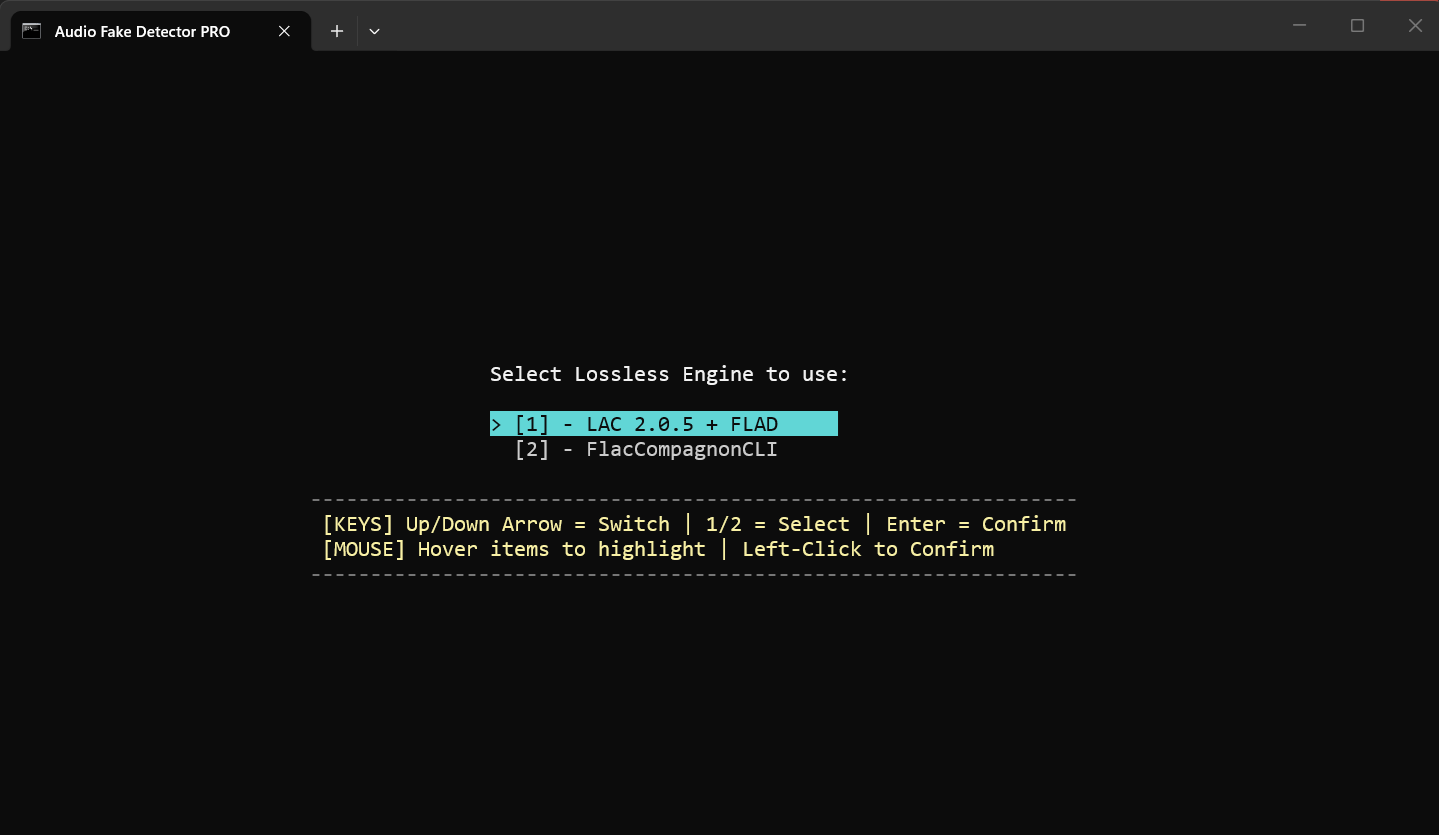
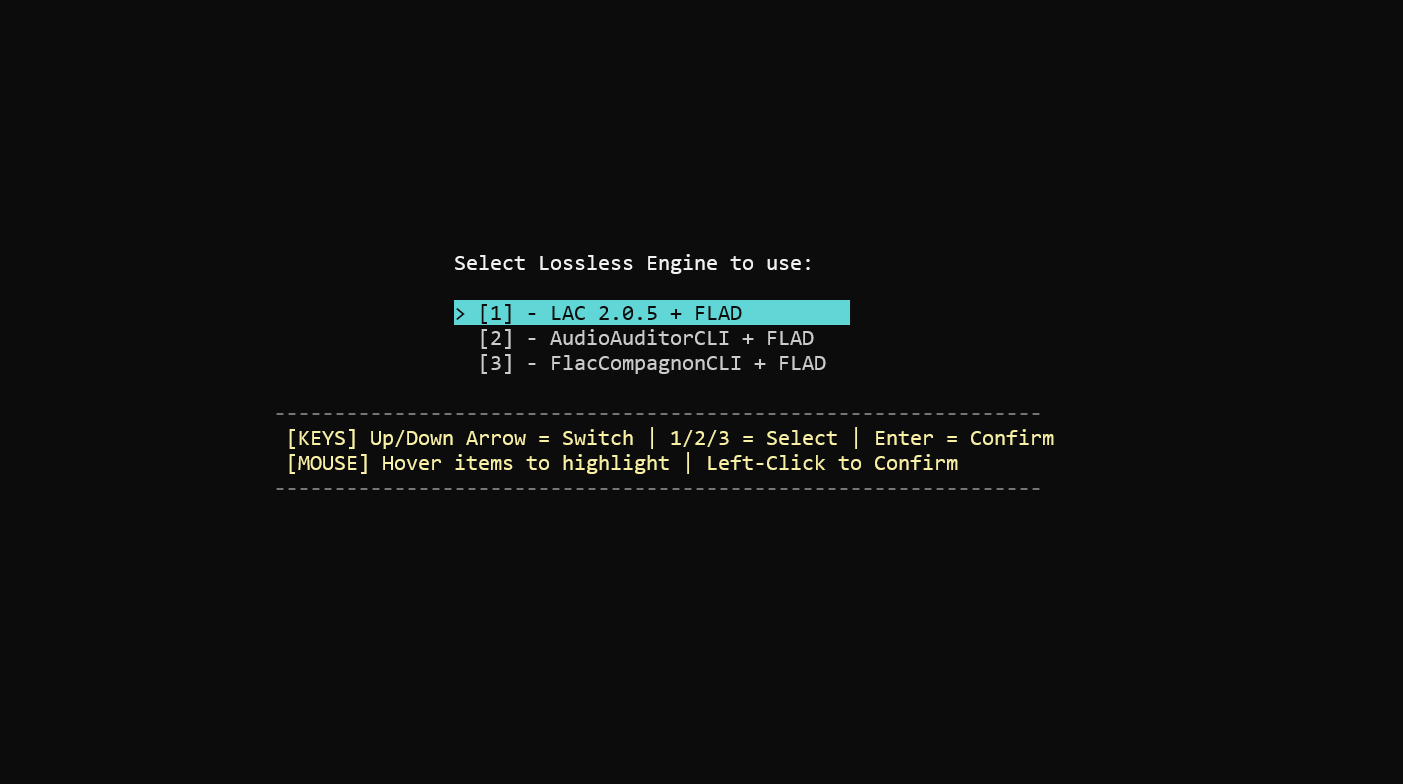
Add files via upload

Changed region(s): [[0.2145, 0.3061, 0.7662, 0.6735], [0.0, 0.0, 1.0, 0.0612]]

diff --git a/README.md b/README.md
@@ -34,8 +34,6 @@ Start_script_no_move.cmd (Intel Core 2 Duo test)
 
 ![Screenshot 4](Screenshot%204.png)
 
-![Screenshot 5](Screenshot%205.png)
-
 Performance note: Audio Fake Detector PRO prioritizes detection coverage and cross-verification over raw analysis speed.  
 Some lossless files require significantly more processing time, particularly when LAC and FLAD are both used for independent verification.  
 
@@ -55,8 +53,9 @@ Self explained
 * Spectral cutoff and compression artifact detection
 * Multi-segment frequency analysis
 * Joint stereo anomaly detection
-* Statistical validation using LAC (Lossless Audio Checker)
-* Automatic dependency management (FFmpeg, FFprobe)
+* Selectable lossless verification engines: LAC 2.0.5 + FLAD, AudioAuditorCLI + FLAD, or FlacCompagnonCLI + FLAD
+* Statistical validation using LAC (Lossless Audio Checker), FLAD, AudioAuditorCLI, and FlacCompagnonCLI for lossless PCM verification
+* Automatic dependency management (FFmpeg, FFprobe, FLAD, and AudioAuditorCLI when selected)
 * High-performance spectrogram processing
 * Detailed reporting: LOG - CSV  
 On selection window, click to cycle: [CSV ( )] → [CSV (,)] → [CSV (;)] → [CSV ( )]
@@ -69,7 +68,7 @@ On selection window, click to cycle: [CSV ( )] → [CSV (,)] → [CSV (;)] → [
 Audio Fake Detector PRO uses a hybrid analysis engine:
 
 * **Spectral Analysis**: detects frequency cutoffs, compression artifacts, and artificial bandwidth extension
-* **Statistical Validation**: verifies lossless authenticity using LAC (Lossless Audio Checker), with FLAD as a second-opinion check on LAC's "Clean"/"Suspect" verdicts
+* **Statistical Validation**: verifies lossless authenticity using the selected lossless engine. LAC + FLAD, AudioAuditorCLI + FLAD, and FlacCompagnonCLI + FLAD use FLAD as a second-opinion check.
 * **Segment-Based Voting System**: improves accuracy by analyzing multiple independent audio segments
 
 This approach reduces false positives and improves detection reliability across different audio formats, including Hi-Res/Ultra-Hi-Res PCM and native DSD, where a dedicated noise-shaping signature check tells a genuine SACD/DSD-derived source apart from an upsampled fake.
@@ -79,11 +78,13 @@ This approach reduces false positives and improves detection reliability across 
 ### 🔎 Lossless
 
 At each startup, a console prompt allows the user to choose the lossless verification mode.  
-LAC + FLAD mode is selected by default, while FlacCompagnonCLI mode can be selected as an alternative.
+**LAC + FLAD mode is selected by default**, while **AudioAuditorCLI + FLAD** and **FlacCompagnonCLI + FLAD** can be selected as alternatives.
 
-LAC + FLAD mode: Lossless audio is verified using Lossless Audio Checker (LAC 2.0.5) and FLAD (Fake Lossless Audio Detector).  
-LAC performs the primary command-line analysis. FLAD is invoked only when LAC returns a conclusive "Clean" or "Suspect" result, providing an independent second check.  
-If LAC identifies a file as "Fake", FLAD's 2nd opinion is not required, as the result is already conclusive.
+#### LAC + FLAD mode
+
+Lossless audio is verified using Lossless Audio Checker (LAC 2.0.5) and FLAD (Fake Lossless Audio Detector).  
+LAC performs the primary command-line analysis. FLAD is used as a second-opinion check when the LAC vote is not already a conclusive FAKE result.  
+If LAC identifies a file as "Fake", no FLAD second-opinion verdict is required to reject the file as genuine lossless.
 
 For slot analysis, FLAC files are temporarily converted to WAV segments (slots) for LAC. LAC and FLAD then analyse the same corresponding temporary WAV segment for each slot.  
 For full-track analysis, LAC analyses the temporary full-track WAV converted from the original FLAC, while FLAD analyses the original FLAC file directly.  
@@ -92,33 +93,53 @@ Therefore, the temporary FLAC-to-WAV conversion is required only for the LAC ana
 Both command-line analyzers run through a unified 3-slot processing pipeline. The LAC/FLAD verification pipeline applies exclusively to lossless PCM audio.  
 Native DSD files are not passed to, or analyzed by, either command-line analyzer. This dual-verification approach replaces auCDtect.
 
-A lossless PCM file is considered genuine only when both LAC and FLAD support the lossless classification. A negative result from either analyzer is sufficient to reject the file as genuine lossless.
+A lossless PCM file is considered genuine only when the combined LAC + FLAD result supports the lossless classification. A negative result from either analyzer is sufficient to reject the file as genuine lossless.
 
 Note: This integration specifically uses the LAC 2.0.5 command-line analyzer and should not be confused with LAC 2.0.7, which launches the graphical user interface (GUI). Like LAC 2.0.5, FLAD is also used as a command-line audio analyzer, providing Hi-Res / Ultra-Hi-Res PCM analysis up to 384 kHz and beyond.
 
-FlacCompagnonCLI mode: FlacCompagnonCLI is used as the sole lossless verification engine. In this mode, LAC and FLAD are not used for lossless verification.  
+#### AudioAuditorCLI + FLAD mode
+
+AudioAuditorCLI can be selected as an alternative primary lossless command-line analyzer, with FLAD used as the second-opinion engine in the same processing model as LAC + FLAD.
+
+AudioAuditorCLI is the Windows x64 command-line client from the AudioAuditor project.
+
+For the 3-slot processing architecture, AudioAuditorCLI and FLAD analyse corresponding native-format slot files. A FLAC source remains FLAC for both analyzers; a WAV source remains WAV. No FLAC-to-WAV conversion is performed for the AudioAuditorCLI + FLAD path.  
+For full-track analysis, AudioAuditorCLI and FLAD both analyse the original source file directly, in its original format.
+
+AudioAuditorCLI + FLAD applies exclusively to lossless PCM audio. Native DSD files are not passed to either command-line analyzer and continue to use Audio Fake Detector PRO's native DSD analysis path.
+
+The AudioAuditorCLI executable is not included in the base distribution when absent; when this engine is selected, Audio Fake Detector PRO can download `AudioAuditorCLI-win-x64.exe` automatically from the project's official GitHub release after the user has selected the corresponding mode.
+
+#### FlacCompagnonCLI + FLAD mode
+
+FlacCompagnonCLI is used as the primary lossless verification engine, with FLAD as an independent second-opinion check.  
 FlacCompagnonCLI is used exclusively for lossless PCM audio; native DSD files are not passed to, or analyzed by, FlacCompagnonCLI.  
-No FLAC-to-WAV conversion is performed in either slot or full-track analysis. FlacCompagnonCLI analyses the original FLAC file directly in both modes.  
+No FLAC-to-WAV conversion is performed in either slot or full-track analysis. For slot analysis, FlacCompagnonCLI and FLAD analyze the same corresponding native-format slot: FLAC remains FLAC and WAV remains WAV. For full-track analysis, both analyzers analyze the original source file directly in its original format.  
 FlacCompagnonCLI is a custom command-line frontend based on the open-source FlacCompagnon project.
 
 ---
 
 ### 🎧 DSD
 
-Audio Fake Detector PRO provides native DSD support (.dsf / .dff) independently of LAC and FLAD. Native DSD files are analyzed by the application's own DSD processing and are not processed through the LAC/FLAD verification pipeline.  
-The application also provides SACD/DSD-to-PCM noise-shaping detection, allowing DSD-derived characteristics to be identified when analyzing PCM material. This functionality is part of Audio Fake Detector PRO and is not performed by LAC or FLAD.
+Audio Fake Detector PRO provides native DSD support (.dsf / .dff) independently of LAC, FLAD, AudioAuditorCLI, and FlacCompagnonCLI. Native DSD files are analyzed by the application's own DSD processing and are not processed through any of the selectable lossless verification pipelines.  
+The application also provides SACD/DSD-to-PCM noise-shaping detection, allowing DSD-derived characteristics to be identified when analyzing PCM material. This functionality is part of Audio Fake Detector PRO and is not performed by LAC, FLAD, AudioAuditorCLI, or FlacCompagnonCLI.
 
 ---
 
 ### 🛡 Dual-Engine Precision
 
-The combination of LAC + FLAD provides complementary validation for lossless PCM audio by addressing each tool's native blind spots:
+The combination of a primary lossless analyzer and FLAD provides complementary validation for lossless PCM audio. The three selectable dual-engine modes are:
 
-LAC accurately detects sample-rate upscaling (e.g., 44.1 → 48 kHz).  
-FLAD helps identify lossy-to-lossless transcodes (e.g., MP3/AAC → WAV/FLAC).  
-Neither LAC nor FLAD is responsible for native DSD analysis; DSD processing is handled independently by Audio Fake Detector PRO since version 8.4.
+* **LAC + FLAD**: LAC is the primary command-line analyzer and FLAD provides the independent second check.
+* **AudioAuditorCLI + FLAD**: AudioAuditorCLI is the primary command-line analyzer and FLAD provides the independent second check.
+* **FlacCompagnonCLI + FLAD**: FlacCompagnonCLI is the primary command-line analyzer and FLAD provides the independent second check.
 
-This complementary approach is particularly useful because the two analyzers can expose different types of suspicious lossless material that may be missed by the other analyzer alone.
+LAC is useful for detecting sample-rate upscaling (e.g. 44.1 → 48 kHz).  
+FLAD helps identify lossy-to-lossless transcodes (e.g. MP3/AAC → WAV/FLAC).  
+AudioAuditorCLI provides an additional independent lossless analysis path, returning explicit REAL / FAKE / UNKNOWN classifications.  
+Neither LAC, FLAD, AudioAuditorCLI, nor FlacCompagnonCLI is responsible for native DSD analysis; DSD processing is handled independently by Audio Fake Detector PRO since version 8.4.
+
+These complementary analysis paths can expose different types of suspicious lossless material that may be missed by one analyzer alone.
 
 ---
 
@@ -158,7 +179,7 @@ MKV, MKA, MKS, MK3D
 - OS: Windows 10/11 (64-bit)  
 - .NET 8 Runtime (automated download and silent install provided)  
 - PowerShell: 5.1 (pre-installed on Windows 10/11)  
-- Network: Internet connection required on first run (for dependencies download)
+- Network: Internet connection required on first run (for dependencies download)  
 
 ---
 
@@ -189,6 +210,10 @@ If required tools are not found locally, they will be downloaded automatically w
 - **FLAD** - source: Sg4Dylan/FLAD (27 MB)  
 📥 <a href="https://github.com/Sg4Dylan/FLAD/releases/download/v0.2/FLAD-0.2-x86_64-windows.7z">7-Zip (GitHub)</a>
 
+- **AudioAuditorCLI** - source: Angel2mp3/AudioAuditor (43.5 MB)  
+📥 <a href="https://github.com/Angel2mp3/AudioAuditor/releases/download/V2.0.0/AudioAuditorCLI-win-x64.exe">Direct EXE (GitHub)</a>  
+Downloaded only when **AudioAuditorCLI + FLAD** is selected and the executable is not already present.
+
 - **.NET 8 Runtime** (27.3 MB, automated download and silent install provided) - source: dotnet.microsoft.com  
 📥 <a href="https://builds.dotnet.microsoft.com/dotnet/Runtime/8.0.31/dotnet-runtime-8.0.31-win-x64.exe">Direct EXE Installer</a>  
 
@@ -207,29 +232,38 @@ winget install Microsoft.DotNet.Runtime.8
 Source: <sub><img src="https://images.icon-icons.com/1011/PNG/512/Google_Drive_icon-icons.com_75713.png" width="18" height="18" alt="Google Drive"></sub> Google Drive
 
 * AudioFakeDetector8.7z/zip (x64) (PowerShell 5.1 scripts: Standard + Portable)  
-  📄 <a href="https://bit.ly/4hu7ucW">Preview</a> 📥 <a href="https://bit.ly/4fS44iY">7-Zip</a> (34.4 MB) 📥 <a href="https://bit.ly/45oOWU9">Zip</a> (59.9 MB)  
+  📄 <a href="https://bit.ly/4hu7ucW">Preview</a> 📥 <a href="https://bit.ly/4fS44iY">7-Zip</a> (34.5 MB) 📥 <a href="https://bit.ly/45oOWU9">Zip</a> (59.9 MB)  
 * AudioFakeDetector8_slim.zip (Portable+Standard editions, web downloads)  
-  👁 <a href="https://bit.ly/4fQq38N">Preview</a> 📥 <a href="https://bit.ly/3RGAALQ">Zip</a> (2.18 MB)
+  👁 <a href="https://bit.ly/4fQq38N">Preview</a> 📥 <a href="https://bit.ly/3RGAALQ">Zip</a> (2.20 MB)
   * **Note:**
     * Portable only: delete `AudioFakeDetector_v8.x.ps1` from archive  
     * Standard only: delete `AudioFakeDetector_v8.x_Portable.ps1` from archive
 
 ---
 
-## 📁 Files and Folders
+### 📁 Files and Folders
 
 Executables, DLL, JSON, state/stamp files  
 Standard: `%LOCALAPPDATA%\AudioFakeDetector\` | Portable: `.\Data\App\`
 
-For the 3-slot lossless analysis pipeline (LAC + FLAD or FlacCompagnonCLI), each of the 3 parallel slots runs against its own physical copy of ForceRedirect.exe, the active lossless engine, flad_cli.exe, and FLAD's model folder. Slot 1 uses the copy in the tool folder above; slots 2 and 3 use their own copies, verified and repaired (by file size) on startup and again before every full-track file:  
+For the 3-slot lossless analysis pipeline (**LAC + FLAD**), each of the 3 parallel slots runs against its own physical copy of `ForceRedirect.exe`, `lac.exe`, `flad_cli.exe`, and FLAD's model folder. Slot 1 uses the copies in the main tool folder; slots 2 and 3 use their own copies, verified and repaired by file size on startup and again before every full-track file:  
 Standard: `%LOCALAPPDATA%\AudioFakeDetector\slot2\`, `%LOCALAPPDATA%\AudioFakeDetector\slot3\` | Portable: `.\Data\App\slot2\`, `.\Data\App\slot3\`  
-Full-track analysis uses the tool folder's own copies for LAC; FLAD reuses slot2's copy instead of a third on-disk copy, since full-track and the 3-slot pipeline never run at the same time.
+Full-track analysis uses the main tool folder's `lac.exe`; FLAD reuses slot2's `flad_cli.exe` / `ForceRedirect.exe` and model folder instead of requiring a third on-disk FLAD copy, since full-track and the 3-slot pipeline never run at the same time.
 
-Spectrogram PNGs, WAV segments, TXT logs (deleted after each track analysis)  
-Standard: `%TEMP%\` | Portable: `.\Data\App\Temp\`
+For the 3-slot lossless analysis pipeline (**AudioAuditorCLI + FLAD**), each slot uses its own physical copy of `ForceRedirect.exe`, `AudioAuditorCLI-win-x64.exe`, `flad_cli.exe`, and FLAD's model folder. The slot input remains in its original audio format: **AudioAuditorCLI does not require FLAC-to-WAV conversion**. The same slot2/slot3 copy verification and repair described above applies. Full-track analysis uses the main tool folder's `AudioAuditorCLI-win-x64.exe`, while FLAD reuses slot2's FLAD tool copy instead of requiring a third on-disk copy.
 
-FLAD's own per-slot spectrogram PNGs (deleted after each track analysis, for all 3 per-slot copies)  
-Standard: `%LOCALAPPDATA%\AudioFakeDetector\Tmp\`, `...\slot2\Tmp\`, `...\slot3\Tmp\` | Portable: `.\Data\App\Tmp\`, `.\Data\App\slot2\Tmp\`, `.\Data\App\slot3\Tmp\`
+For **FlacCompagnonCLI + FLAD** mode, each slot uses its own physical copy of `ForceRedirect.exe`, `FlacCompagnonCLI.exe`, `flad_cli.exe`, and FLAD's model folder in the same slot-tool infrastructure. The slot input remains in its original audio format: **no FLAC-to-WAV conversion is performed**. Full-track analysis uses the original file directly; FLAD reuses slot2's FLAD tool copy instead of requiring a third on-disk FLAD copy.
+
+Temporary analysis files are stored in a **temporary working folder created automatically for each analysis session**. The folder name contains a unique identifier generated for that session; this identifier is only used to keep the temporary files of different sessions separate. The session folder is removed during cleanup when the corresponding analysis work is finished.  
+Standard: `%TEMP%\AudioFakeDetector\Session_<unique-ID>\`  
+Portable: `.\Data\App\Temp\Session_<unique-ID>\`
+
+In **LAC + FLAD** mode, this session directory may contain spectrogram PNGs, temporary WAV segments/full-track WAV data required by the LAC path, and TXT logs.  
+In **AudioAuditorCLI + FLAD** mode, it contains native-format slot data, AudioAuditorCLI/FLAD TXT logs, and analysis intermediates; **no FLAC-to-WAV conversion is required by AudioAuditorCLI**.  
+In **FlacCompagnonCLI + FLAD** mode, it contains native-format slot data, FLAD TXT logs, and analysis intermediates; **no FLAC-to-WAV conversion is performed**.
+
+FLAD's own per-slot spectrogram PNGs are stored separately and deleted after each track's FLAD check. They are used only by modes that include FLAD:  
+Standard: `%LOCALAPPDATA%\AudioFakeDetector\tmp\`, `...\slot2\tmp\`, `...\slot3\tmp\` | Portable: `.\Data\App\tmp\`, `.\Data\App\slot2\tmp\`, `.\Data\App\slot3\tmp\`
 
 ---
 
